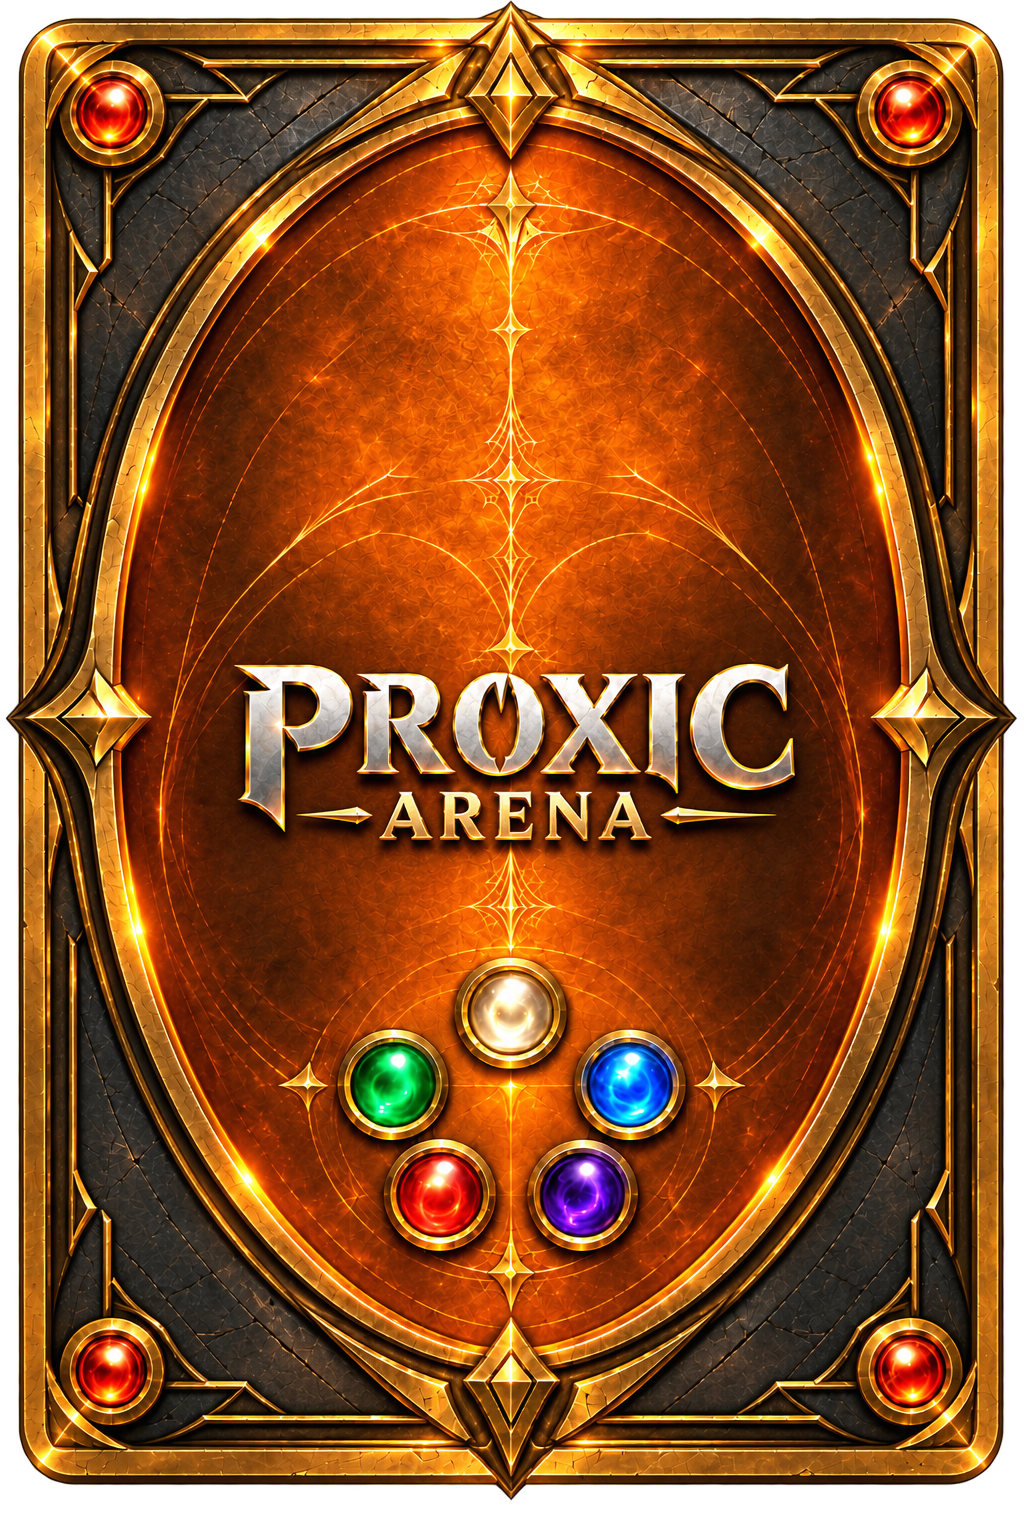
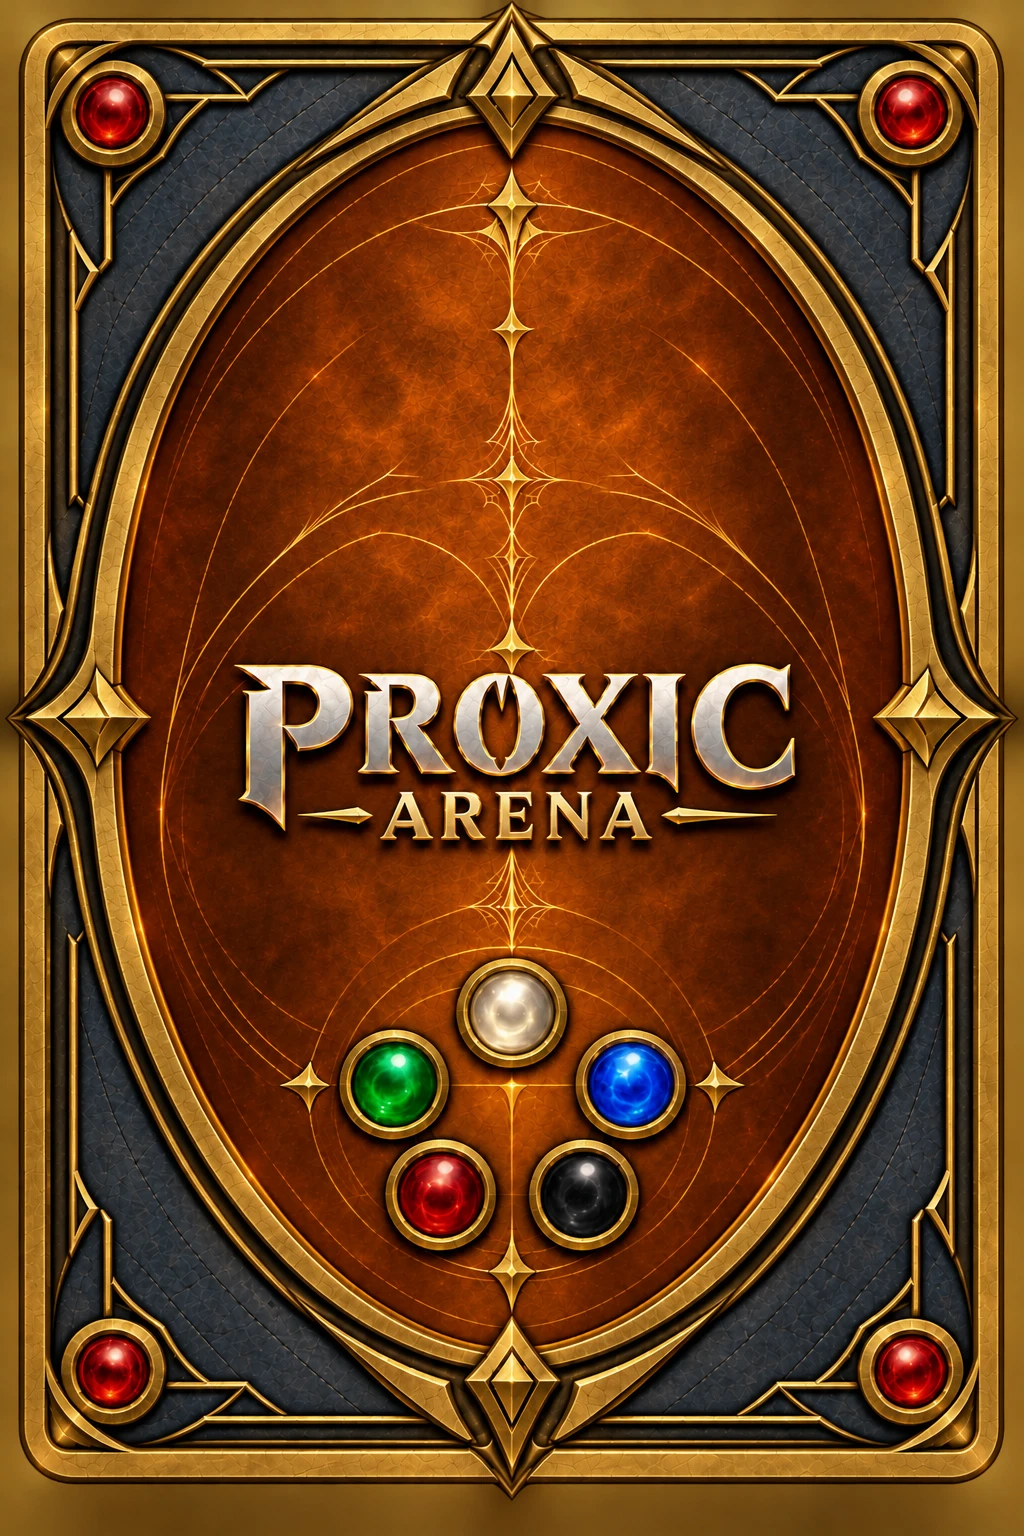
The Proxic card back on hidden cards (spec 0031 Amendment 1)
The opponent's hidden hand cards show the Proxic card back, turned round
as if held across the table; face-down permanents show the same back,
upright, under their face-down bar. The brand file is the owner's newer
back (black gem).

diff --git a/frontend/src/battlefield/Board.tsx b/frontend/src/battlefield/Board.tsx
@@ -31,6 +31,7 @@ import "@fontsource/barlow-condensed/500.css";
 import "@fontsource/barlow-condensed/600.css";
 import "@fontsource/barlow-condensed/700.css";
 import "./battlefield.css";
+import cardBack from "../assets/card-back.webp";
 import { ManaCost, costChange } from "./ManaCost";
 import {
   HAND_ORIGIN,
@@ -312,9 +313,7 @@ export function CardFace({
     // server told (the snapshot carries no name for anybody else).
     return (
       <>
-        <span className="bf-card-back" aria-hidden="true">
-          <span className="bf-card-back-mark" />
-        </span>
+        <span className="bf-card-back" aria-hidden="true" />
         {known && (
           <span className="bf-bar bf-bar-top bf-bar-secret">
             <span className="bf-name">{name}</span>
@@ -798,9 +797,8 @@ export function Board({
             {shown ? (
               <CardFace {...drawn} />
             ) : (
-              <span className="bf-card-back" aria-hidden="true">
-                <span className="bf-card-back-mark" />
-              </span>
+              // The Proxic card back (docs/assets/brand), owner 2026-10-28.
+              <img className="bf-opp-back" src={cardBack} alt="" draggable={false} />
             )}
           </button>
         ),

diff --git a/frontend/src/battlefield/battlefield.css b/frontend/src/battlefield/battlefield.css
@@ -242,6 +242,20 @@
   cursor: default;
   opacity: 1;
 }
+/* A hidden card: the Proxic card back, edge to edge. */
+.bf-opp-hand:not(.bf-opp-hand-shown) {
+  border: 0;
+  background: none;
+}
+/* Turned round: the opponent holds their cards facing them, across the table. */
+.bf-opp-back {
+  display: block;
+  width: 100%;
+  height: 100%;
+  border-radius: inherit;
+  transform: rotate(180deg);
+  pointer-events: none;
+}
 .bf-opp-hand-shown {
   box-shadow:
     0 0 0 2px #e0a44a,
@@ -252,18 +266,10 @@
  * the card from its label and inspect, not from its face. */
 .bf-card-back {
   position: absolute;
-  inset: calc(var(--card-h) * 0.03);
-  border-radius: calc(var(--card-h) * 0.03);
-  background: repeating-linear-gradient(45deg, rgb(255 255 255 / 4%) 0 4px, transparent 4px 9px),
-    #1f2a36;
-  display: grid;
-  place-items: center;
-}
-.bf-card-back-mark {
-  width: 38%;
-  aspect-ratio: 1;
-  border: 2px solid rgb(204 216 228 / 45%);
-  border-radius: 50%;
+  inset: 0;
+  border-radius: inherit;
+  /* The Proxic card back (docs/assets/brand), owner 2026-10-28. */
+  background: url("../assets/card-back.webp") center / 100% 100% no-repeat;
 }
 
 /* --- badges ------------------------------------------------------------- */

diff --git a/CHANGELOG.md b/CHANGELOG.md
@@ -3,6 +3,12 @@
 What changed for players and for whoever runs the server, in plain
 words, newest first. Each release on GitHub carries the same notes.
 
+## Unreleased
+
+**The Proxic card back** (spec 0031 Amendment 1, owner 2026-10-29)
+- Your opponent's hand at the top of the board shows the Proxic card back, turned round as if held across the table.
+- Face-down cards on the table (a morph, a manifest) show the same back.
+
 ## 1.16.0 — 2026-10-28
 
 A new look for the game screen: the stack fanned out so every card shows,

diff --git a/docs/features/0031-belt-and-zone-pictures.md b/docs/features/0031-belt-and-zone-pictures.md
@@ -64,4 +64,10 @@ All taken 2026-10-28 (see the top).
 
 ## Amendments
 
-None.
+### Amendment 1 (owner, 2026-10-29, after 1.16.0)
+
+The opponent's hidden cards show the Proxic card back
+(`docs/assets/brand/Proxic Card Back.png`, the owner's newer version with
+the black gem), turned round as if held across the table. Face-down cards
+on the table use the same back, upright, still with their face-down bar.
+Approved from the canvas demo (https://claude.ai/artifact/DFdLiGuErNQgvGWnJvjjkT).
